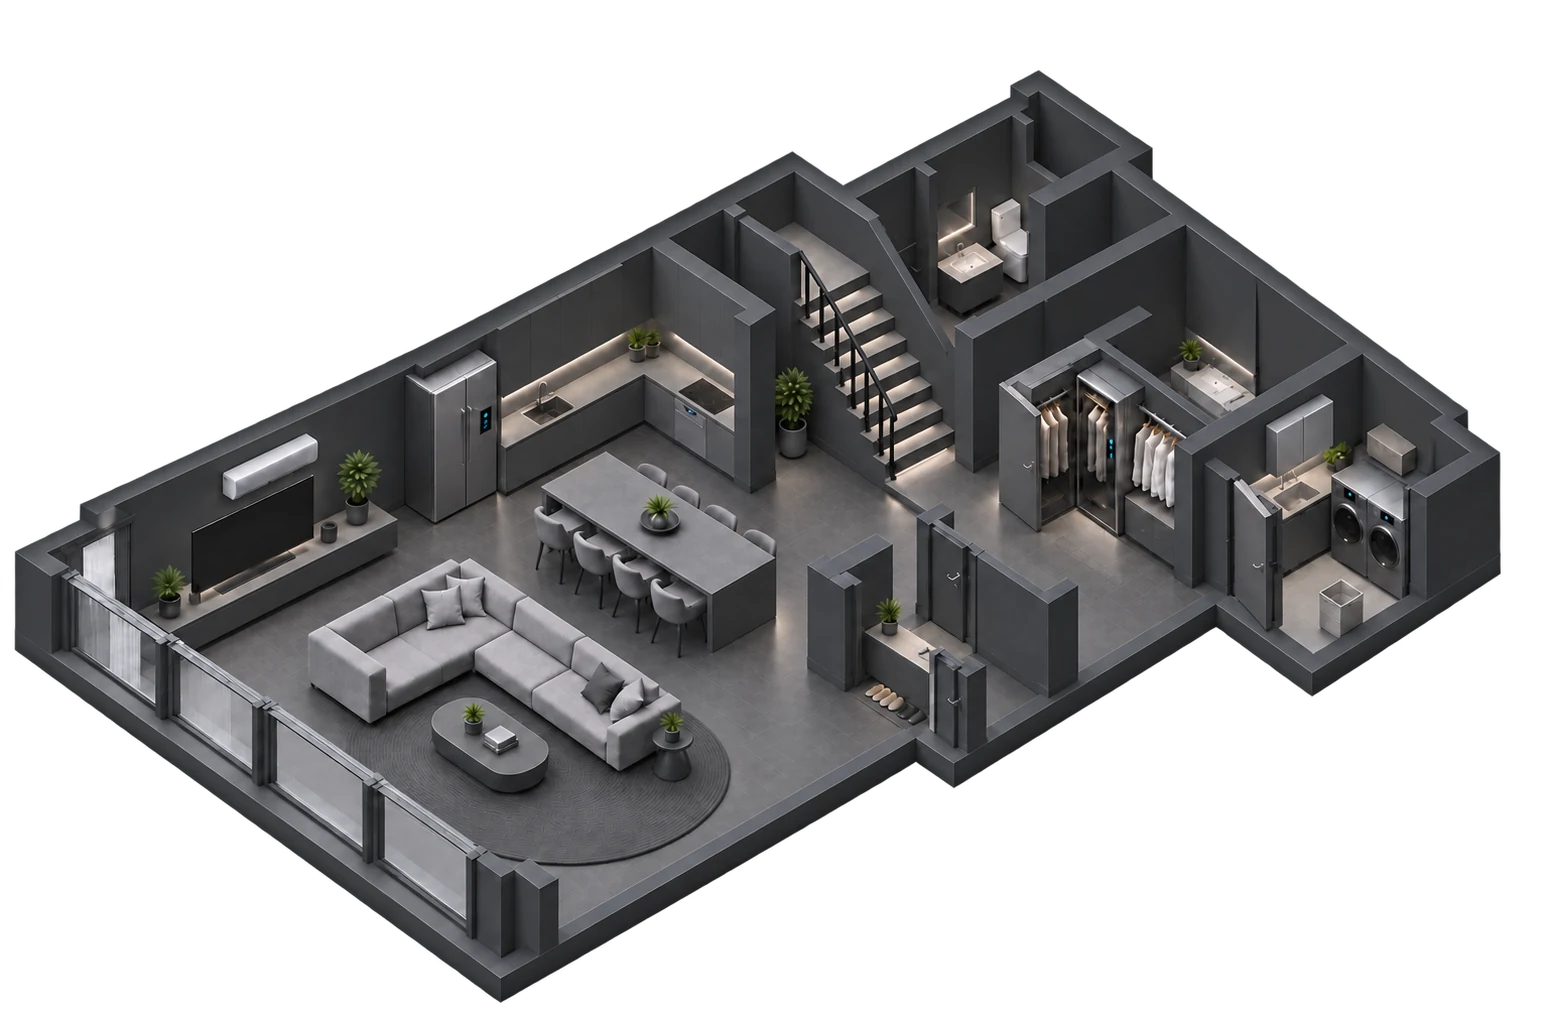
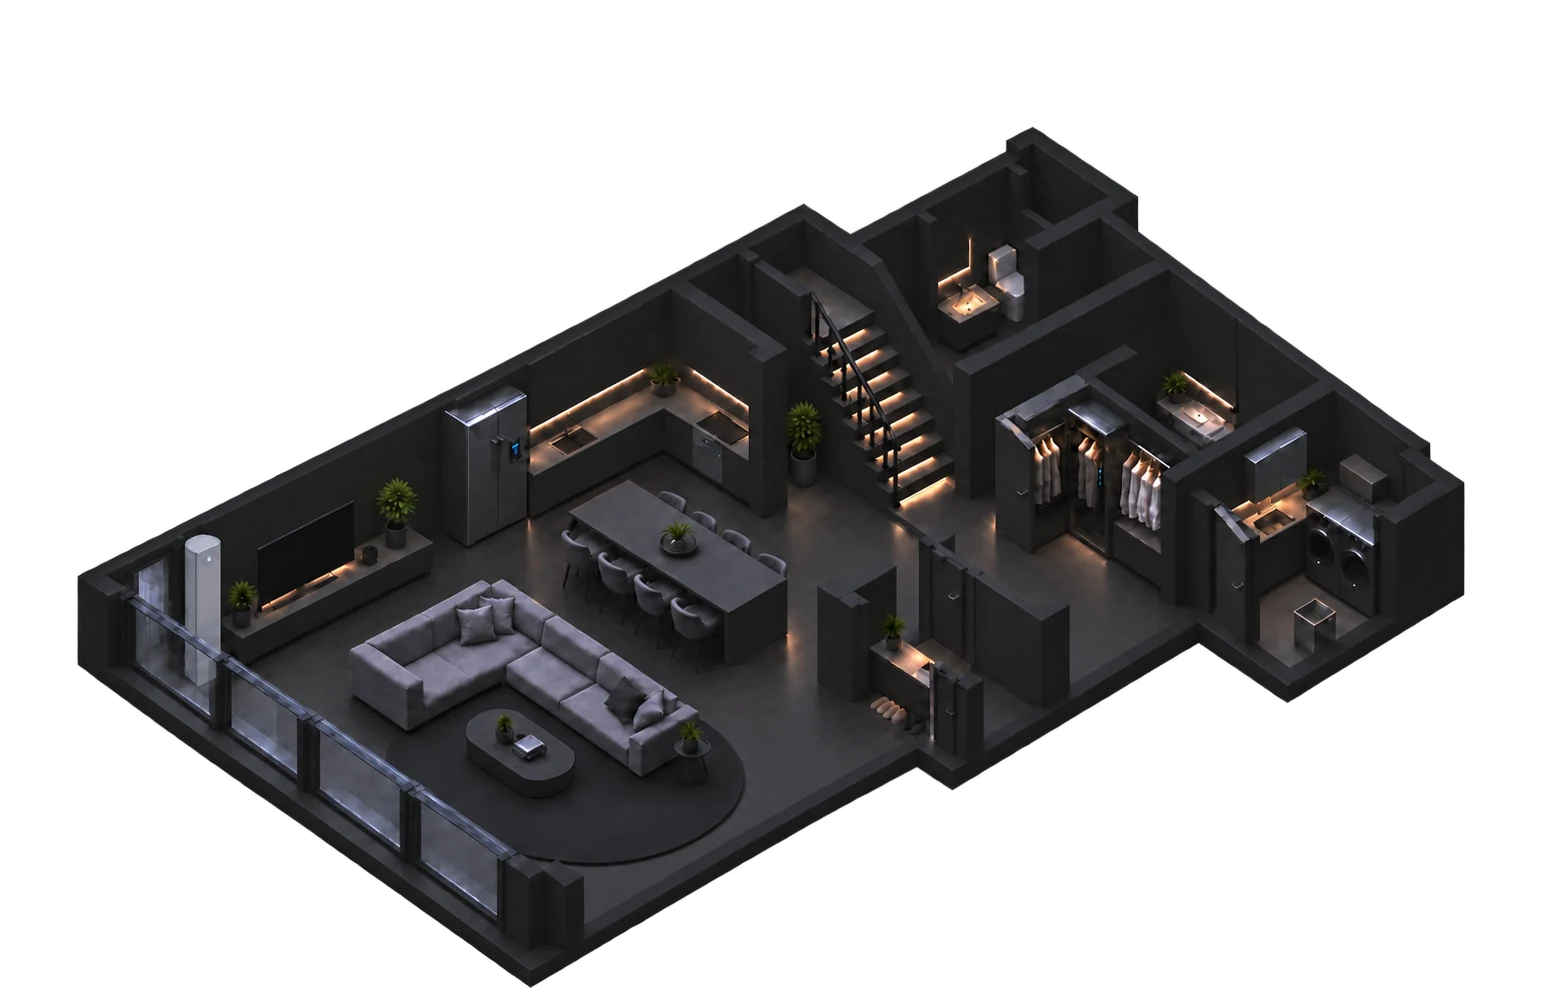
Wallpad: new 1F image, reposition 1F pins, color-dodge on both floors
Claude-Session: https://claude.ai/code/session_018mnowPvBHGDxwTwfuUijNo

diff --git a/wallpad/index.html b/wallpad/index.html
@@ -51,7 +51,7 @@
          transition:transform .55s var(--ease)}
   .viewport.dragging .world,.world.no-anim{transition:none}
   .house{position:absolute;inset:0;width:100%;height:100%;object-fit:contain;mix-blend-mode:color-dodge;transition:filter .6s,opacity .5s;user-select:none;-webkit-user-drag:none}
-  .house2{opacity:0;mix-blend-mode:normal}
+  .house2{opacity:0}
   .world.floor2 .house:not(.house2){opacity:0}
   .world.floor2 .house2{opacity:1}
   .floor2-msg{position:absolute;inset:0;display:grid;place-items:center;color:var(--muted);font-size:15px;opacity:0;pointer-events:none;transition:opacity .4s}
@@ -301,11 +301,11 @@
 
   /* ---------- 기기 데이터 (좌표 = 집 이미지 기준 %) ---------- */
   const devices = [
-    { id:'fridge', name:'냉장고', x:30.2, y:32.6, kw:1.4, on:true,  today:'8.6 kWh', mode:'일반 냉장 3°C', w:[5,6,5,7,6,6,7,6,5,6,7,6] },
-    { id:'styler', name:'스타일러', x:71.6, y:34.9, kw:0.7, on:true,  today:'1.2 kWh', mode:'리프레시 코스', w:[0,0,1,3,7,8,6,2,0,0,0,0] },
-    { id:'washer', name:'세탁기', x:90.3, y:48.1, kw:1.7, on:true,  today:'2.4 kWh', mode:'표준 세탁 · 32분 남음', w:[0,0,0,2,6,9,9,8,4,1,0,0] },
-    { id:'ac',     name:'에어컨', x:17.6, y:44.5, kw:1.9, on:false, today:'0 kWh',   mode:'꺼짐', w:[3,4,6,8,9,8,7,5,0,0,0,0] },
-    { id:'tv',     name:'TV',     x:15.8, y:52.5, kw:0.3, on:false, today:'0.6 kWh', mode:'꺼짐', w:[0,1,2,1,0,0,2,4,6,5,0,0] },
+    { id:'fridge', name:'냉장고', x:31.2, y:44.8, kw:1.4, on:true,  today:'8.6 kWh', mode:'일반 냉장 3°C', w:[5,6,5,7,6,6,7,6,5,6,7,6] },
+    { id:'styler', name:'스타일러', x:70.1, y:45.3, kw:0.7, on:true,  today:'1.2 kWh', mode:'리프레시 코스', w:[0,0,1,3,7,8,6,2,0,0,0,0] },
+    { id:'washer', name:'세탁기', x:86.1, y:55.0, kw:1.7, on:true,  today:'2.4 kWh', mode:'표준 세탁 · 32분 남음', w:[0,0,0,2,6,9,9,8,4,1,0,0] },
+    { id:'ac',     name:'스탠드 에어컨', x:13.1, y:60.4, kw:1.9, on:false, today:'0 kWh',   mode:'꺼짐', w:[3,4,6,8,9,8,7,5,0,0,0,0] },
+    { id:'tv',     name:'TV',     x:19.5, y:54.5, kw:0.3, on:false, today:'0.6 kWh', mode:'꺼짐', w:[0,1,2,1,0,0,2,4,6,5,0,0] },
     { id:'ac2',    name:'안방 에어컨', f:2, x:21.3, y:45.0, kw:1.2, on:false, today:'0 kWh', mode:'꺼짐', w:[2,3,5,7,8,7,6,4,0,0,0,0] },
     { id:'robot',  name:'로봇청소기', f:2, x:36.7, y:53.3, kw:0.1, on:true, today:'0.3 kWh', mode:'거실·안방 청소 중', w:[0,0,0,3,6,4,0,0,0,0,0,0] },
     { id:'pc',     name:'PC',     f:2, x:43.8, y:68.1, kw:0.4, on:true, today:'1.8 kWh', mode:'작업 중', w:[0,0,2,5,6,6,5,6,4,2,0,0] },
